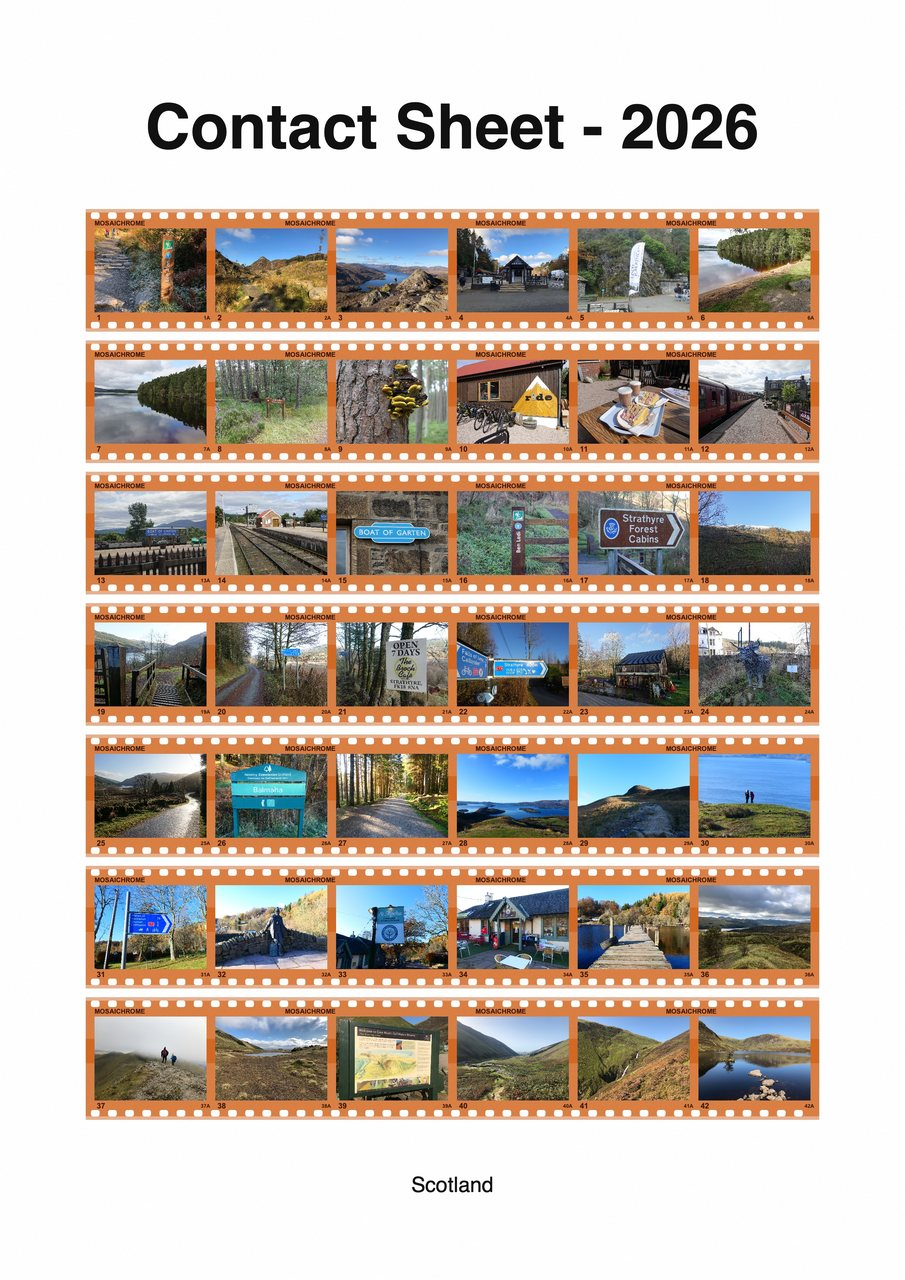
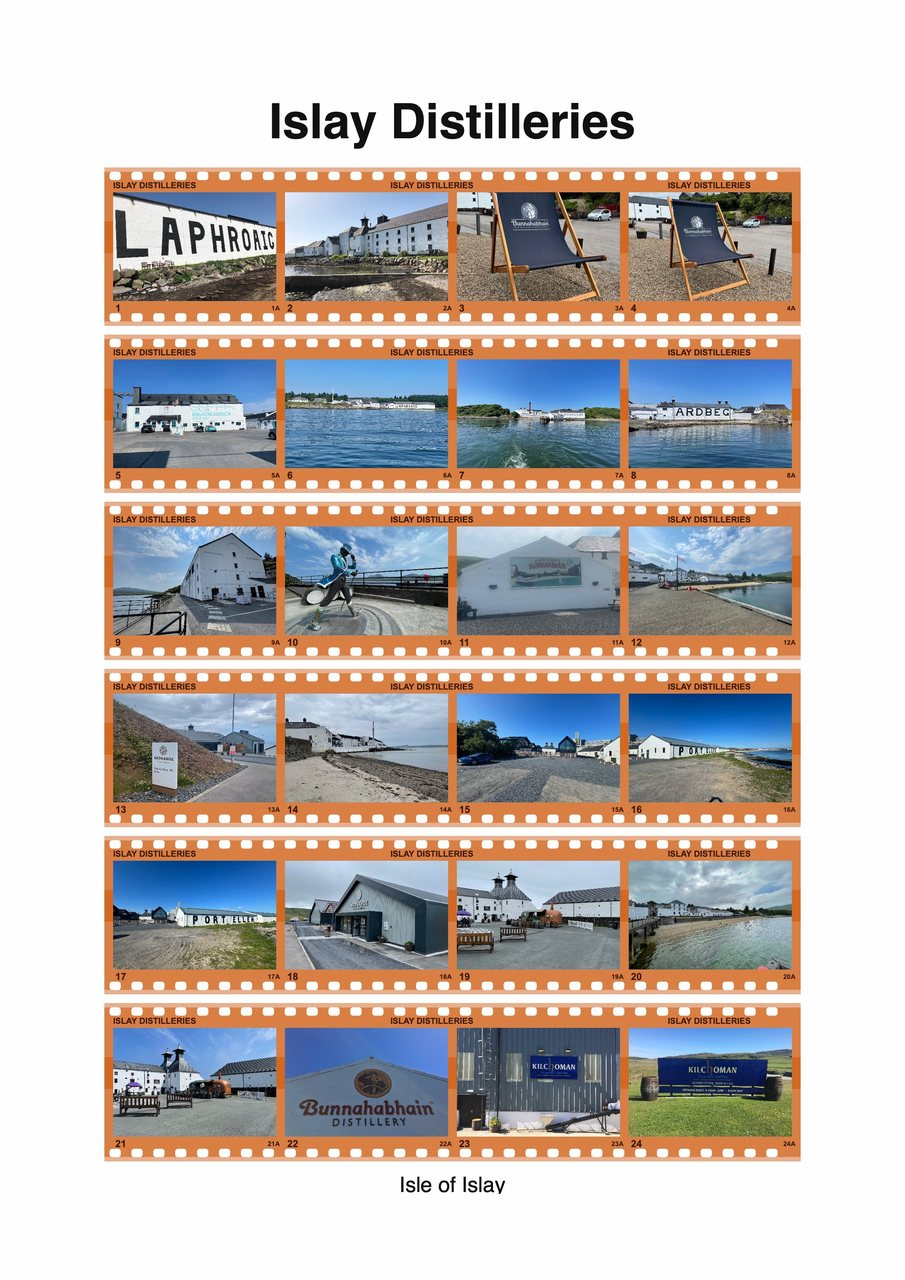
Templates: add Custom (personalised) card; use Islay covers
Add a fourth "Custom · your name on the film" card (Islay 1, colour on black,
personalised film edge). Swap the colour-white cover to the Islay white sheet.

diff --git a/templates.html b/templates.html
@@ -119,6 +119,15 @@
         </div>
       </div>
       <div class="card">
+        <img src="templates/preview-custom.jpg" alt="Film contact sheet with a custom name printed on the film edge">
+        <div class="card-body">
+          <h3>Custom · your name on the film</h3>
+          <p>Your own name, date or title printed along the film edge — made to order.</p>
+          <div class="meta"><span>35&nbsp;mm</span><span>Personalised</span><span>Made to order</span></div>
+          <a class="dl" href="https://payhip.com/MosaicCollageMaker">View in shop</a>
+        </div>
+      </div>
+      <div class="card">
         <img src="templates/preview-colour-black.jpg" alt="Film contact sheet, colour film on a black page">
         <div class="card-body">
           <h3>Colour · black background</h3>
